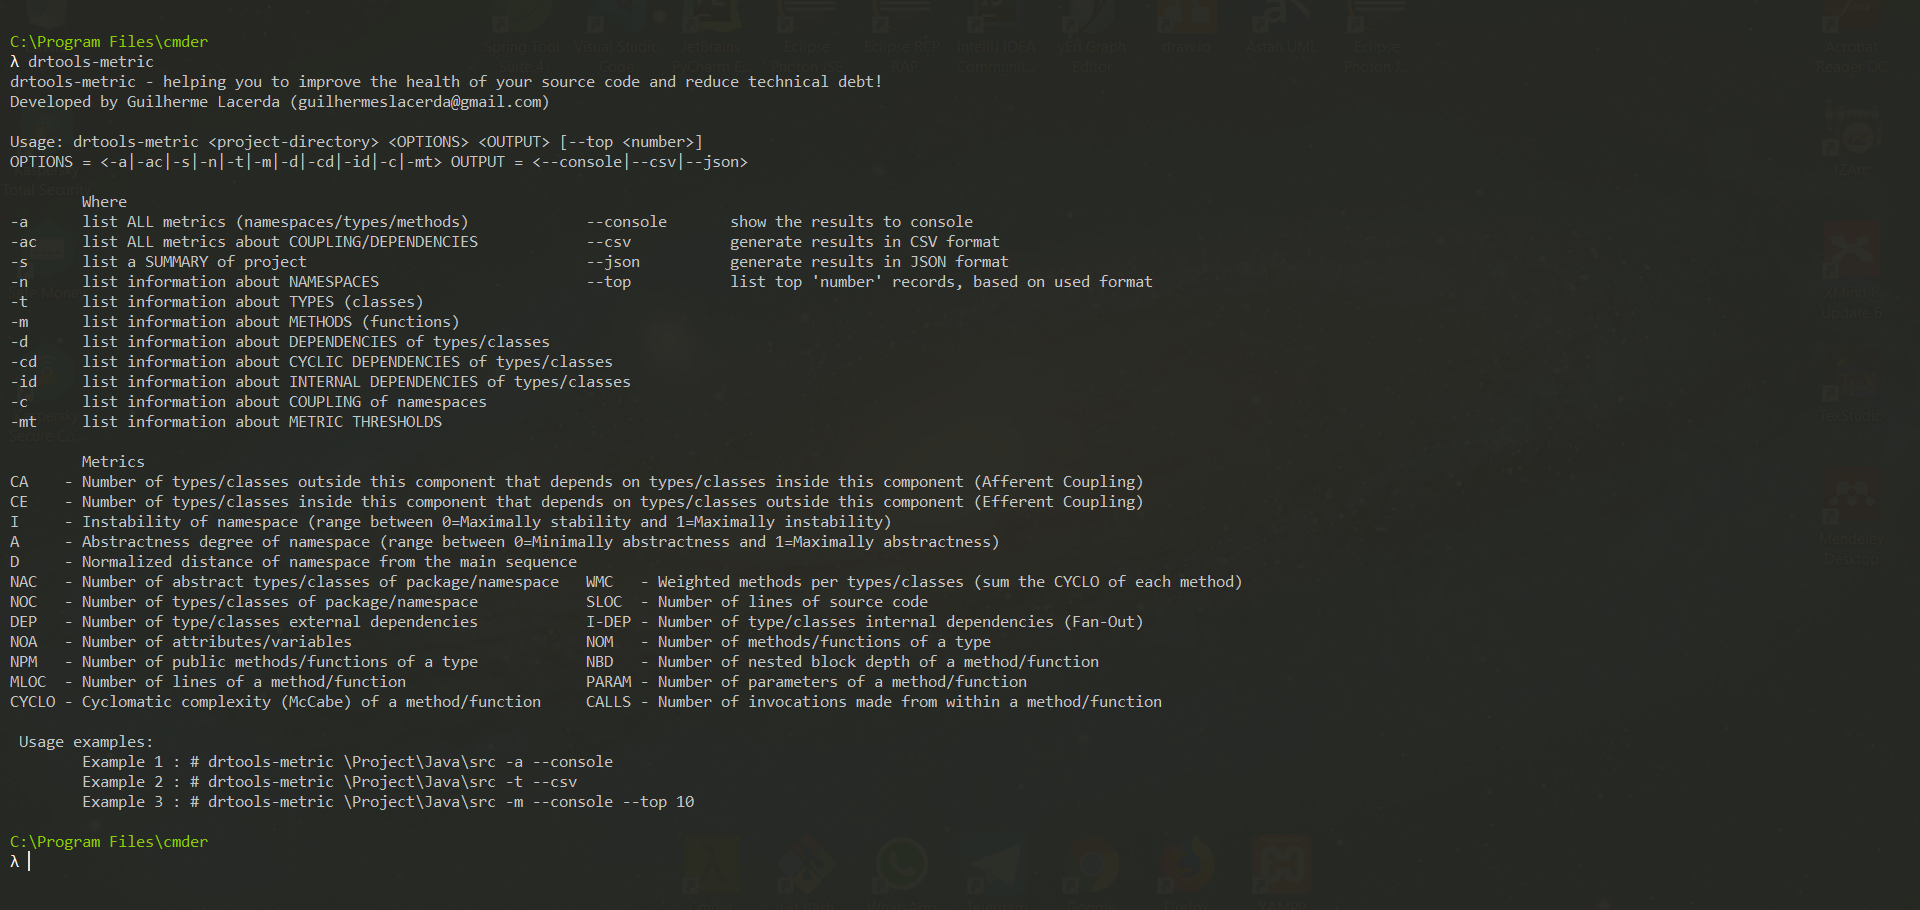
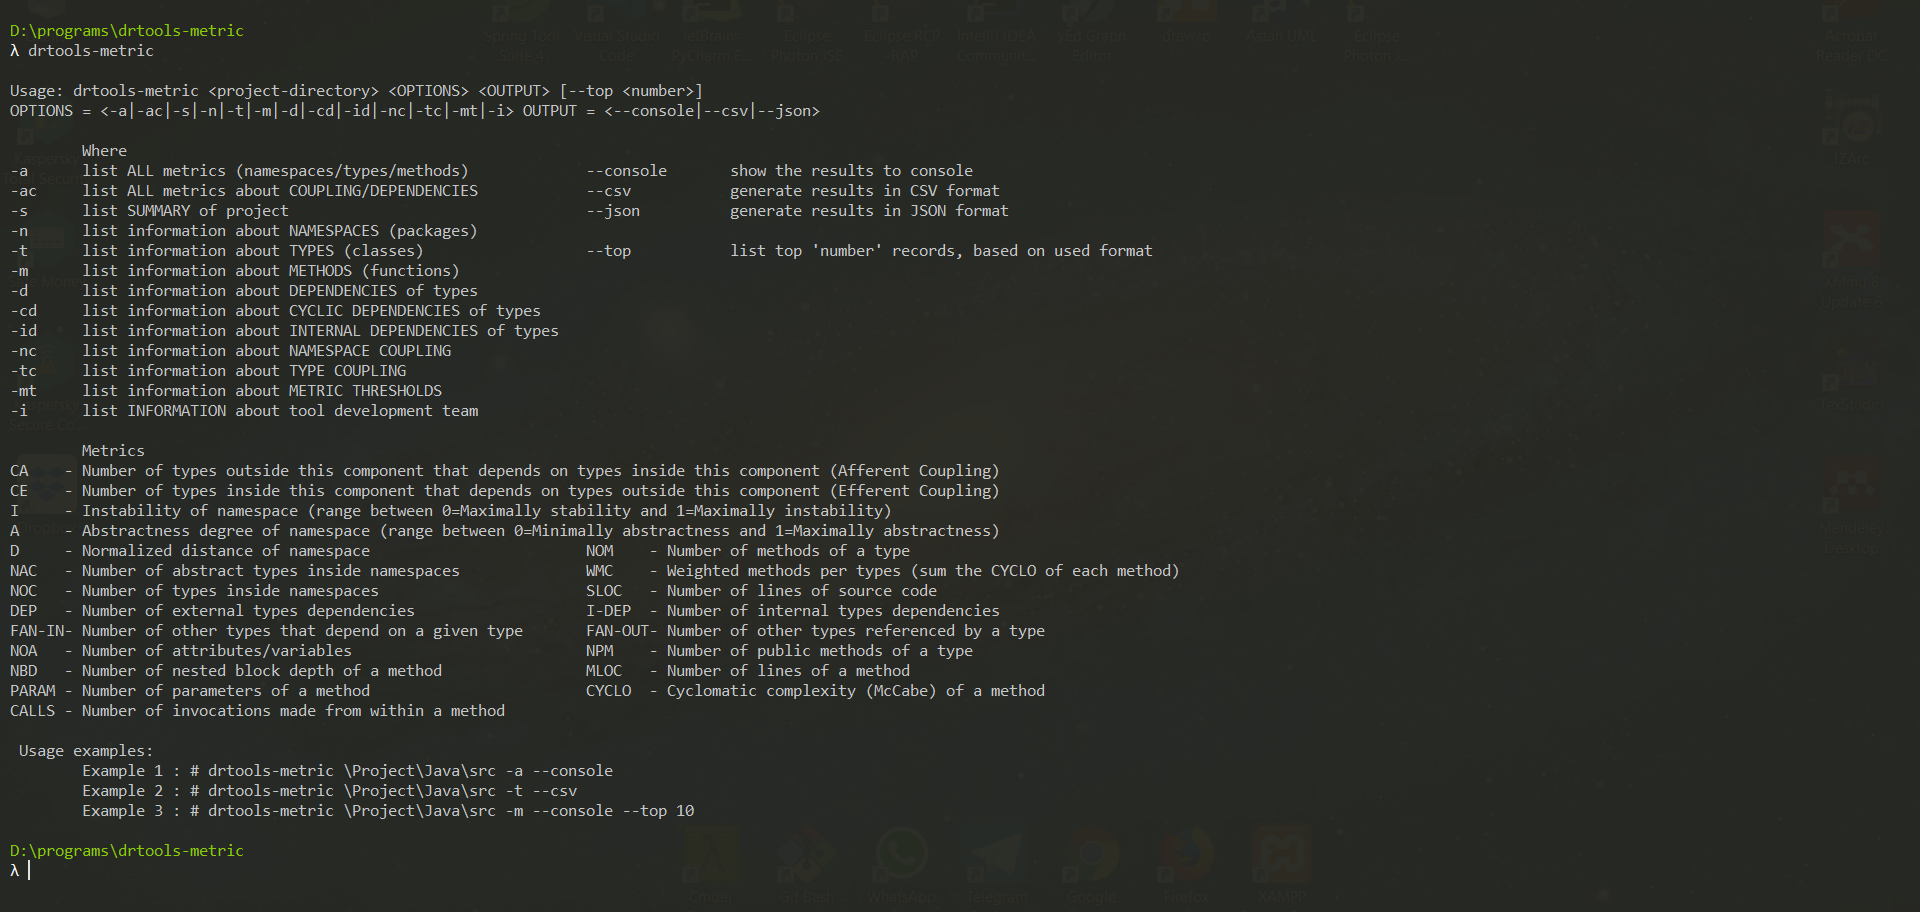
update information about drtools-metric

Changed region(s): [[0.0, 0.0308, 0.6562, 0.8923], [0.0, 0.9231, 0.125, 0.9538]]

diff --git a/drtools-metric.html b/drtools-metric.html
@@ -60,7 +60,7 @@
                 The drtools-metric came up with this approach as a premise: simplicity. For this reason, it is a CLI (command-line interface) tool.
                 We believe the command line has great power and versatility.</p>
                 <p>We have studied and selected some metrics that, combined, can give developers many insights before looking at the code. We also seek to bring a presentation that would make it easier for developers to analyze.
-                We defined a set of <a href="materials.html">analysis heuristics based on these metrics</a> to facilitate and educate the developer in these investigations.
+                We defined a set of <a href="./materials.html">analysis heuristics based on these metrics</a> to facilitate and educate the developer in these investigations.
                 </p>
 
             </div> 
@@ -87,7 +87,8 @@
                       <li data-target="#carouselExampleIndicators" data-slide-to="6"></li>
                       <li data-target="#carouselExampleIndicators" data-slide-to="7"></li>
                       <li data-target="#carouselExampleIndicators" data-slide-to="8"></li>
-                      <li data-target="#carouselExampleIndicators" data-slide-to="8"></li>
+                      <li data-target="#carouselExampleIndicators" data-slide-to="9"></li>
+                      <li data-target="#carouselExampleIndicators" data-slide-to="10"></li>
                     </ol>
                     <div class="carousel-inner">
                       <div class="carousel-item active">
@@ -119,6 +120,9 @@
                       </div>   
                       <div class="carousel-item">
                         <img class="d-block w-100" src="./images/drtools-metric/dr-tools-usage-summary-method.PNG" alt="Dependencies">
+                      </div>   
+                      <div class="carousel-item">
+                        <img class="d-block w-100" src="./images/drtools-metric/dr-tools-usage-summary-type-coupling.PNG" alt="Type Coupling">
                       </div>   
                     </div>
                     <a class="carousel-control-prev" href="#carouselExampleIndicators" role="button" data-slide="prev">
@@ -162,7 +166,7 @@
                     <li>Supported languages: Java (for now)</li>
                     <li>Outputs in different formats: console, CSV, and JSON</li>
                     <li>ease to filtering results (using the '--top X' option)</li>
-                    <li>Contextualized results, to facilitate the analysis and investigation</li>
+                    <li>Contextualized results, to facilitate the analysis and investigation (metric thresholds are available <a href="https://metric-visualization-demo.herokuapp.com/drtools-thresholds.html" target="_blank">here</a>)</li>
                     <li>To visualize graphs of project data, simply use <a href="drtools-metric-visualization.html">drtools-metric visualization</a></li>
                 </ul>                            
             </div>
@@ -175,14 +179,17 @@
             <div class="row">
             <div class="col-lg-12 ftco-animate">
                 <h2 class="mb-3">Context and Metrics</h2>
-                <p>The drtools-metric presents the <b>31 metrics contextualized</b> by summary, namespaces, types, methods, dependencies and coupling. 
+                <p>The drtools-metric presents the <b>33 metrics contextualized</b> by summary, namespaces, types, methods, dependencies and coupling. 
                     The following is the list of metrics by context:</p>
                 <ul>
                     <li><b>Summary (9):</b> Total of namespaces, total of types, mean number of types/namespaces, total of lines of code (SLOC), mean number of SLOC/types, total of methods, mean number of methods/types, total of complexity (CYCLO), and mean number of complexity/types</li>
                     <li><b>Namespaces (2):</b> Number of classes/types (NOC) and number of abstract classes (NAC)</li>
-                    <li><b>Types (7):</b> Lines of code (SLOC), number of methods (NOM), number of public methods (NPM), class complexity (WMC), number of dependencies (DEP), number of internal dependencies (I-DEP), and number of fields/attributes (NOA)</li>
+                    <li><b>Types (9):</b> Lines of code (SLOC), number of methods (NOM), number of public methods (NPM), class complexity (WMC), number of dependencies (DEP), number of internal dependencies (I-DEP), Number of other types that depend on a given type (FAN-IN), 
+                      number of other types referenced by a type (FAN-OUT), and number of fields/attributes (NOA)</li>
                     <li><b>Methods (5):</b> Lines of code (MLOC), cyclomatic complexity (CYCLO), number of invocations (CALLS), nested block depth (NBD), and number of parameters (PARAM)</li>
-                    <li><b>Coupling (5):</b> Afferent coupling (CA), efferent coupling (CE), instability (I), abstractness degree (A), and normalized distance (D)</li>
+                    <li><b>Namespace Coupling (5):</b> Afferent coupling (CA), efferent coupling (CE), instability (I), abstractness degree (A), and normalized distance (D)</li>
+                    <li><b>Type Coupling (4):</b> number of dependencies (DEP), number of internal dependencies (I-DEP), Number of other types that depend on a given type (FAN-IN), and 
+                      number of other types referenced by a type (FAN-OUT)</li>
                     <li><b>Dependencies (3):</b> General dependencies (DEP), internal dependencies (I-DEP), and cyclic dependencies</li>
                 </ul>                            
             </div>
@@ -212,8 +219,8 @@
                   <li>Viewing information about types (console), using the option <b>-t</b></li>
                   <p><code>prompt> drtools-metric \repo\DrToolsMetric\src -t --console</code></p>
 
-                  <li>Viewing information about the top 10 complex types (console), using the option <b>-top</b></li>
-                  <p><code>prompt> drtools-metric \repo\DrToolsMetric\src -t --console -top 10</code></p>
+                  <li>Viewing information about the top 10 complex types (console), using the option <b>--top</b></li>
+                  <p><code>prompt> drtools-metric \repo\DrToolsMetric\src -t --console --top 10</code></p>
 
                   <li>Viewing information about types (CSV), using the option <b>--csv</b></li>
                   <p><code>prompt> drtools-metric \repo\DrToolsMetric\src -t --csv > drtools-metric-types.csv</code></p>
@@ -233,9 +240,12 @@
                   <li>Viewing information about internal dependencies (console), using the option <b>-id</b></li>
                   <p><code>prompt> drtools-metric \repo\DrToolsMetric\src -id --console</code></p>
 
-                  <li>Viewing information about coupling (console), using the option <b>-c</b></li>
-                  <p><code>prompt> drtools-metric \repo\DrToolsMetric\src -c --console</code></p>
-              </ul>                            
+                  <li>Viewing information about namespace coupling (console), using the option <b>-nc</b></li>
+                  <p><code>prompt> drtools-metric \repo\DrToolsMetric\src -nc --console</code></p>
+
+                  <li>Viewing information about type coupling (console), using the option <b>-tc</b></li>
+                  <p><code>prompt> drtools-metric \repo\DrToolsMetric\src -tc --console</code></p>
+                </ul>                            
           </div>
           </div>
       </div>
